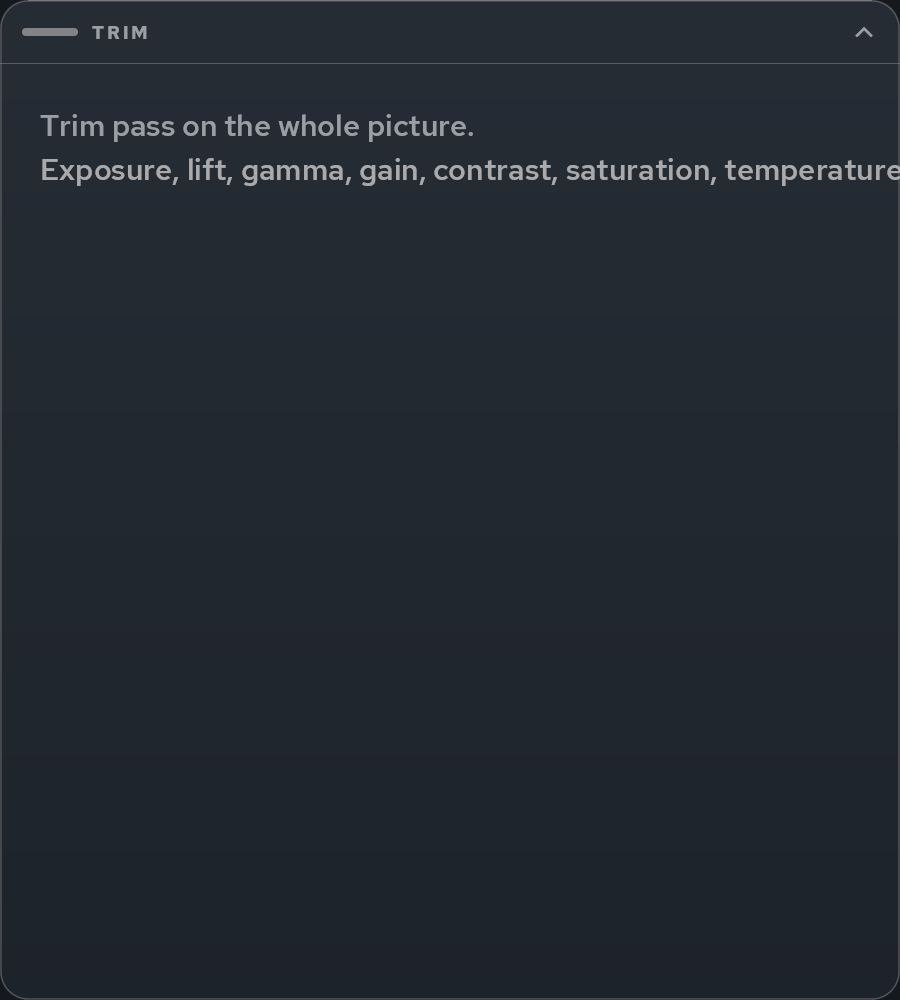
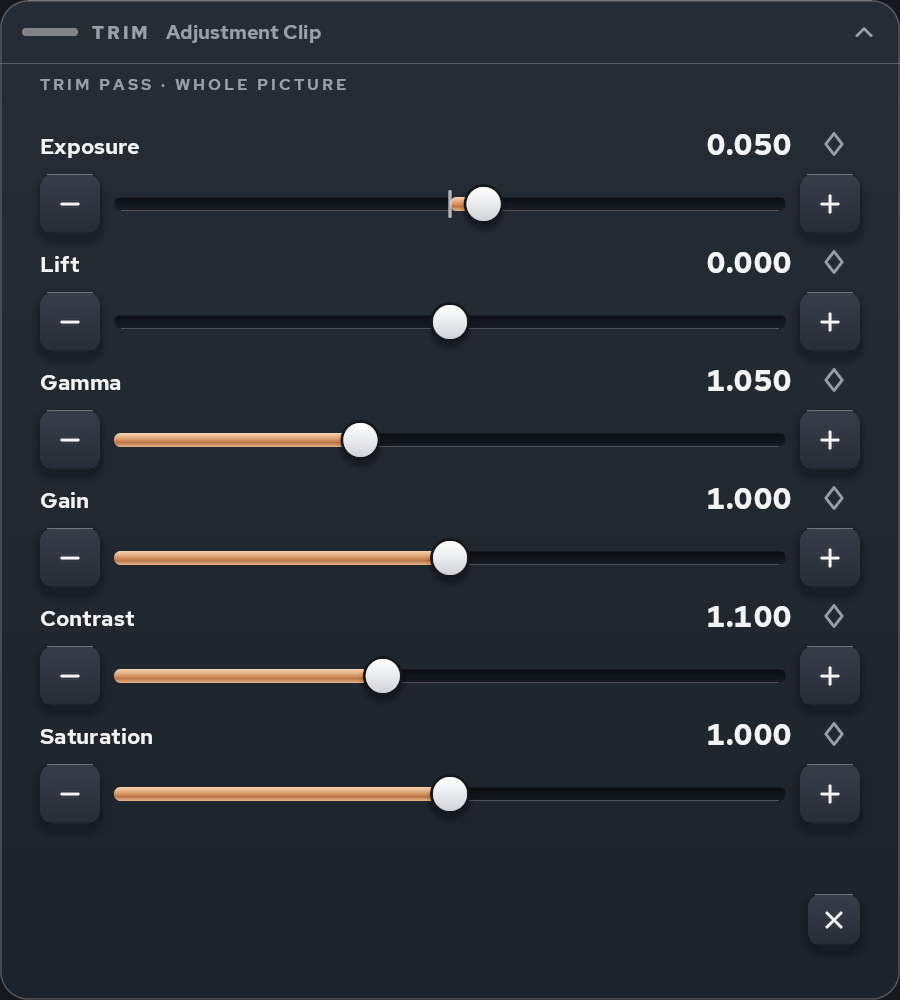
Docs: 3D cards are internal (templates later), Trim on Placement, test footage, commit-to-Color design
- CHANGELOG 1.0.8 now describes +50 (Trim on the Placement panel, clip
  name on the bars, smooth scopes, outlines under the panels) and drops
  the 3D Card lines: the Vine / Salmon / Hay Bale cards are Skylight's own
  and are not shipped; chooseable 3D card templates come with beta.
- Setup guide, how-to, readiness audit, headset reference, walkthrough
  notes and site edit list updated to match.
- docs/test-footage.md: where to get 180 / Blackmagic / Canon / VR180 /
  dome footage and what each tests.
- Roadmap: Monday notes and the "Commit to Color page" design for Trim
  (SetCDL, two-node mapping, not built).

Claude-Session: https://claude.ai/code/session_01YTubpriy5us5ShAXEFxtsy

diff --git a/docs/roadmap.md b/docs/roadmap.md
@@ -194,7 +194,7 @@ The Kalyx/Velaria website comp and its public Roadmap page still describe the 30
 2. **Roadmap page, Next → Now:** "Lens presets (Canon RF 5.2 mm / RF-S 3.9 mm / 180 / 200 / 220, ±5° trim)" — shipped 1.0.7+41; on-device look still owed, so keep the wording to what it is (presets, not calibration).
 3. **Roadmap page, Now:** add "Setup preflight: the headset tells you when Resolve's monitoring, output scaling or frame rate is wrong, with the fix" — shipped 1.0.8+47.
 4. **Roadmap page, Now:** add "Trim pass from the headset (exposure, lift/gamma/gain, contrast, saturation, temperature, tint) on an adjustment clip" — shipped 1.0.8+48 (unverified on device). This also retires "colour grading in the headset" from the *not on the list* line, or rewords it: "no grading; a trim pass, yes".
-5. **3D Cards wording (hands-on and tier chart):** today's 3D Cards depend on model kits (22–167 MB each) that cannot ship until the licence question is settled, and a missing kit fails the export. Until then say "3D titles (Vine kit) — more kits with the alpha" or "3D titles — with your own FBX/OBJ or ours", not three named cards.
+5. **3D Cards wording (hands-on and tier chart):** the Vine / Salmon / Hay Bale cards are Skylight-internal and not in the build (settled 2 Nov). Keep **3D Cards** on the site as a beta/launch feature: "3D card templates you pick from, with real depth" — not three named cards. For the alpha the 3D path is "your own FBX/OBJ scene through Canvas Control".
 6. **Downloads:** Stitch and Publish must not be live links (see "Kalyx Stitch and Publish — state and packaging plan"). Suggested: Stitch "coming with the alpha (Insta360 Titan now)", Publish "coming with the alpha".
 7. **Name:** every "Kalyx" on the site becomes "Velaria" when the rename lands; the DeckLink device name in screenshots and copy ("Kalyx (Quest)") follows the code rename, not before.
 8. **Hands-on section controls:** rebuild from the v3 renders (`quest/host/ref/*.png`: strip, placement, look, deck, scopes) — the comp still shows the v2 (Saira, glow) panels.
@@ -210,6 +210,21 @@ The Kalyx/Velaria website comp and its public Roadmap page still describe the 30
 - **Package 1.0.8 rebuilt complete** (`~/VRLink/release/VR-Link-1.0.8.zip`, 12.5 MB, 06:03): fixed installer, bridge with preflight + versions, Montserrat in `fonts/`, Kalyx Trim in `macros/`, headset app 1.0.8+48, changelog with everything above. (`package.sh` had lost its exec bit in a sync; restored.)
 - Quest: 1.0.8+48 installed Sunday 03:07 (adb "Success"), not launched; the Quest is **not on Bruce this morning — four Pico 4 (A9210) headsets are on the hub instead** (the ALICE deployment), so no on-device check and no launch. `quest.log`: Nelson's Saturday 15:48 session ran clean (no `xrEndFrame failed`, no "ignoring", no "dropping").
 - Weekend chain complete: B, H, C, I, D, F, G. E (curved panels) stays parked.
+
+## Monday morning with Nelson (2 Nov 2026, 08:06–09:00 ET)
+- **Trim works on his timeline.** Build **1.0.8+50** (installed 08:43): the Trim bars moved from a Look tab to the **Placement panel (TRIM view)** — Nelson's call, and the right one: Placement is "the selected thing's controls", Look is the app's own view. Placement/Look bars show **just the clip name**. Card outlines composite **under** the strip and panels and come from a 1024 × 576 16:9 texture (the 160 px box stretched over a card was the "pixelated corners"). Paged lists get a chip strip under the last row and a chevron-down icon.
+- **3D Cards, corrected:** Vine / Salmon / Hay Bale are Skylight-internal project cards and are **not in the build** (`package.sh` skips them; done 08:15). The product feature is **3D card templates a person picks from**, a beta/launch (v2) item — keep it on the site's roadmap as that, not as the three named cards. The alpha's 3D path is Canvas Control's 3D Scene input.
+- **Repo.** `git init` on the tree; two commits (1.0.8 baseline, +50). Working copy on Bruce at `~/Projects/Velaria` (cloned from a bundle; remote set to `git@github.com:nelsondunk/velaria.git`, which does not exist yet — Bruce's SSH key is authorised on GitHub, so the push goes the moment the empty private repo exists). Container builds stay the build machine until the Android NDK is set up on Bruce.
+- **Downloads page (Stitch / Publish):** nothing live, agreed; both to be ready for launch — packaging plan in the Stitch/Publish state doc (bundle spatial-media, decide ffmpeg, Release build, notarise, README).
+- **Test footage for every format**: `docs/test-footage.md` — Blackmagic's 18 public URSA Cine Immersive BRAW clips (3.8–25.8 GB, 16320 × 7200 at 90 fps) are the free one to start with; Canon needs a native R5 + RF 5.2 clip (Canon publishes none); VR180 from the Kandao gallery; dome masters from ESA/Hubble, which is a projection we don't have yet.
+
+### "Commit to Color page" for Kalyx Trim — design (not built)
+Nelson, 2 Nov: "some kind of 'commit changes to Color page' that deletes the Fusion node while moving the items to a Color page node."
+
+- **The API route exists:** `TimelineItem.SetCDL({"NodeIndex": "1", "Slope": "r g b", "Offset": "r g b", "Power": "r g b", "Saturation": "s"})` writes an ASC CDL into a node of the clip's Color-page graph — and an adjustment clip has its own graph, so the trim lands exactly where the Fusion node was. Then `DeleteFusionCompByName` (or leave the comp and set Amount = 0) removes the Fusion stage. One bridge command, one strip chip ("Commit to Color"), Resolve's undo covers it.
+- **The mapping is a CDL, so it is exact for most of the bars and approximate for two.** CDL = `(in × slope + offset) ^ power`, then saturation. Gain → slope; Lift and Exposure → offset; Gamma → power = 1/gamma; Saturation → saturation; Temperature/Tint → per-channel slope (they are per-channel gains in the macro already). **Contrast** (pivot 0.5) folds into slope and offset exactly only when power = 1 — with Gamma and Contrast both moved, the committed look differs slightly from the Fusion one, because Fusion applies contrast after the gamma curve and CDL cannot express that order. Either accept and say so in the UI ("committed as a CDL; gamma + contrast together are approximate"), or commit gamma as power and contrast as a second node's slope/offset (`NodeIndex 2`), which is exact. Two nodes is the honest version.
+- **Colour space:** Fusion runs in the timeline working space (RCM) and so does a Color-page node, so the numbers carry across without a transform. Verify on KALYX TEST with a scope read before and after (the regression rig can render frame 40 both ways and diff).
+- **Order:** (1) prove `SetCDL` on an adjustment clip in KALYX TEST, (2) bridge `commit_trim` with the two-node mapping and a diff render, (3) strip chip. Half a day. Not before the Quest has been used with the plain Trim for a week — committing is a convenience; the trim itself is the feature.
 
 ## Known constraints
 - Resolve scripting has no play/stop (seek only); no DCTL/OFX parameter access; re-render per change ~200–300 ms on a single card, 1–2 s with several stacked comps. From outside Resolve: `comp.Paste(dict)` and Lua `Execute` do not work; `tool.LoadSettings(file)` does (see footage tools). `fusion.NewComp(True, True)` gives a hidden scratch comp for experiments; close it without saving.

diff --git a/docs/test-footage.md b/docs/test-footage.md
@@ -1,0 +1,23 @@
+# Test footage for every format Kalyx claims (2 Nov 2026)
+
+Nelson, 2 Nov: "We should get some 180, Blackmagic, dome, Canon and whatever else footage so we can test everything on those formats." What exists in the wild, what it costs to get, and what each one tests. Nothing downloaded yet — the big ones are tens of gigabytes and want NYC's disk, not a headset session.
+
+| Format | Source | What you get | Size | What it exercises |
+|---|---|---|---|---|
+| **Apple Immersive / Blackmagic URSA Cine Immersive** | [Blackmagic gallery page](https://www.blackmagicdesign.com/products/blackmagicursacineimmersive/gallery) — "Download Blackmagic RAW Clip" | 18 BRAW clips (Desert Offroad, Sandy Valley Ranch, Iceland), 16320 × 7200 at 90 fps, dual-fisheye stereo, plus three `.drp` Resolve projects and one `.aivu`. Needs Resolve Studio 20.1+ | 3.8–25.8 GB each; pick **Desert Landscape 2 (3.8 GB)** and **Chasing Turn (6.1 GB)** | 180° stereo fisheye in Resolve's Immersive workflow; the monitoring path at 90 fps (our preflight will flag the frame rate — that is the point); whether the bridge's lens presets (180 / 200 / 220°) describe it |
+| **Canon RF 5.2 mm dual fisheye** | Canon does not publish raw camera files; the lens page has processed demos only ([Canon RF 5.2mm F2.8L](https://www.canon-europe.com/lenses/rf-5-2mm-f2-8l-dual-fisheye-lens/), [PetaPixel sample reel](https://petapixel.com/2021/10/18/this-is-what-footage-from-canons-5-2mm-dual-fisheye-lens-looks-like)) | Need a real R5 / R5 C clip (8K dual fisheye, side-by-side in one frame, Canon Log 3) | one 30 s clip ≈ 2–3 GB | the **Canon RF 5.2 (190°)** preset and the RF-S 3.9 (144°) preset in the View tab; side-by-side layout detection; the EOS VR Utility → Resolve path vs. straight BRAW-style fisheye |
+| **VR180 consumer** | [Kandao gallery](https://kandaovr.com/gallery) (Obsidian / QooCam samples), Lenovo Mirage samples via [360Rumors](https://360rumors.com/lenovo-mirage-vr180-samples/) | 5.7–8K side-by-side equirect 180, H.264/H.265 | 0.5–2 GB | SBS 180 equirect — the common YouTube VR180 case; Orient 360 on a 180 plate (should refuse or clamp) |
+| **Fulldome** | [ESA/Hubble fulldome clips](https://esahubble.org/Hubble25/fulldome/) (free, 4K dome masters), [NOIRLab video formats](https://noirlab.edu/public/videoformats), [FDDB 8K timelapse](https://www.fddb.org/?p=538) | 4K/8K square dome masters (azimuthal/fisheye, mono) | 1–10 GB | the one projection we **don't** have: a 180° fisheye dome master is not equirect. Needs a "Dome" projection in the headset (tilted fisheye, mono) — a new item, not a preset |
+| **Insta360 Titan / Pro 2** (ours) | Nelson's own stitched masters | 7680 × 7680 TB stereo, 8K mono | — | the path everything was built on; stays the reference |
+| **Flat 16:9 / 2:1** | any Resolve project | — | — | Flat projection window, PIP sources |
+
+## Order of attack
+
+1. **Blackmagic first** (free, public, the format the site names). Download the two small clips onto NYC overnight (`curl -L -o` from the gallery links; the links are behind a form on the page, so grab them in a browser and paste the URLs), open in KALYX TEST, drop on a 180 stereo timeline, monitor through Kalyx. Expect the preflight to say 90 fps vs timeline fps and the picture to need a 180 projection + fisheye lens preset.
+2. **Canon**: borrow or rent an R5 + RF 5.2 for a day, or ask a Canon rep for a native sample (they hand them out to dealers). Without a native file the two Canon presets are unverified claims.
+3. **VR180 consumer**: ten minutes, Kandao gallery.
+4. **Dome** is a feature, not a test: schedule it after the alpha unless a planetarium client appears.
+
+## What "tested" means for each
+
+Open in Resolve → appears in the headset with the right projection and eyes → preflight silent once the timeline is set up properly → Canvas Control card placed and rendered → export plays back on the Quest. Record the result per format in this file.

diff --git a/CHANGELOG.md b/CHANGELOG.md
@@ -4,7 +4,7 @@ For alpha testers. Newest first. Headset builds are numbered `version+build`; th
 
 ## 1.0.8 — 2 November 2026
 
-Headset app 1.0.8+48. Install over 1.0.7 with `sudo ./install.sh`; the headset app updates in place and keeps your panel layout.
+Headset app 1.0.8+50. Install over 1.0.7 with `sudo ./install.sh`; the headset app updates in place and keeps your panel layout.
 
 **Fixed**
 
@@ -15,17 +15,19 @@ Headset app 1.0.8+48. Install over 1.0.7 with `sudo ./install.sh`; the headset a
 **Added**
 
 - **The headset tells you when Resolve is set up wrong.** The strip's status line shows one warning with the fix in Resolve's own menu words: a square timeline without output scaling, monitoring smaller than the timeline, a frame-rate mismatch, or no picture after the bridge connects. Fix it and the line clears.
-- **Kalyx Trim** (Effects ▸ Kalyx): a trim pass for an adjustment clip — exposure, lift, gamma, gain, contrast, saturation, temperature, tint, amount — adjustable from the headset's Look panel (Trim tab, Picture layer).
-- **Montserrat ships in the package** and the installer adds it to your fonts. Without it the 3D Titles failed to export on any Mac but ours.
+- **Kalyx Trim** (Effects ▸ Kalyx): a trim pass for an adjustment clip — exposure, lift, gamma, gain, contrast, saturation, temperature, tint, amount — adjustable from the headset: pick it on the Picture layer and the Placement panel becomes the TRIM panel.
+- **Montserrat ships in the package** and the installer adds it to your fonts, so titles set in it export on any Mac.
 - **Versions on the View tab.** Bottom right of Look ▸ View: headset build, Mac package, bridge and Resolve. A screenshot of that line answers the first three questions in any bug report.
 - **`adb` comes in the box.** The package includes Google's Android platform-tools (`platform-tools/adb`, universal binary, licence in `platform-tools/NOTICE.txt`). You no longer need Homebrew or the Android SDK; if you have `adb` already, yours is used. `sudo ./install.sh --headset` installs or updates the headset app on its own.
 - `send-logs.sh` gathers the Mac logs, the versions and the headset log into one zip on your Desktop.
+- The Placement and Look bars name the clip you are controlling.
+- Scopes are drawn with a smoothing filter instead of nearest-neighbour: lines are lines, not staircases.
+- Card outlines in the picture sit under the panels (they used to cut across them) and have proper round corners.
 - Test hooks for us: the app reads `cmd.txt` in its files folder for scripted presses, pointing and quitting, so we can reproduce what you report without a hand in the headset.
 
 **Fixed, installer**
 
 - 1.0.8's first installer stopped after placing adb and never installed the Fusion library (caught by a ten-cycle install soak on a second Mac). Fixed before anyone got it.
-- The Salmon 3D Card's fish model was an absolute path on our own drive; every model file now follows the Model Kit Folder control.
 
 **Changed**
 
@@ -35,7 +37,7 @@ Headset app 1.0.8+48. Install over 1.0.7 with `sudo ./install.sh`; the headset a
 **Known**
 
 - Square 360 timelines (over/under, e.g. 5760 × 5760) still need Output scaling set to 3840 × 3840 while you monitor; the headset tells you when that is the problem.
-- The 3D Cards need their model kits on your Mac (Model Kit Folder); a missing kit fails the export rather than dropping the model. Kits are not in this package yet.
+- No 3D card templates yet: the alpha's 3D path is your own FBX/OBJ scene through Canvas Control's *3D Scene* input. Templates come with beta.
 - Nothing on the Quest Store yet: sideload only, developer mode required.
 
 ## 1.0.7 — 30 October 2026

diff --git a/docs/alpha-readiness-audit.md b/docs/alpha-readiness-audit.md
@@ -78,7 +78,7 @@ Verdict: the Mac side of the install is real on a second machine. Remaining inst
 ## What must be in place before build 1 leaves (in order)
 
 1. ~~Clean install on a machine that isn't Bruce~~ — **done on NYC 30 Oct** (see above). Still to do on a second machine: the headset half with a Quest plugged in, and the Blackmagic-present path.
-2. **The 3D Card kits travel with the zip** (or the Cards don't ship in build 1 — Canvas Control alone is a coherent alpha). Sizes: Vine 22 MB, Salmon 131 MB, Hay Bale 167 MB. **Proven 31 Oct on NYC**: without the kit the export fails outright. ~~Montserrat~~ — in the package from 1.0.9, installed by `install.sh`; without it every title/card export fails (regression doc).
+2. ~~The 3D Card kits travel with the zip~~ — **settled 2 Nov: the Vine / Salmon / Hay Bale cards are Skylight-internal and are not in the package** (`package.sh` skips every 3D Title / 3D Card). Canvas Control's 3D Scene input is the alpha's 3D path; chooseable 3D card templates come with beta/launch. (Kit sizes for the record: Vine 22 MB, Salmon 131 MB, Hay Bale 167 MB; a missing kit fails the export outright, proven 31 Oct on NYC.) ~~Montserrat~~ — in the package from 1.0.9, installed by `install.sh`; without it every title/card export fails (regression doc).
 3. **Headset stability confirmed** — **the two causes found and fixed 30 Oct evening** (1.0.7+43/+44, both verified with Nelson in the headset: black screen after bridge connect = non-unit quaternions from the five-decimal layout file; loading-screen hang after a quit = relaunch inside the finished process). Still wanted: a week of Nelson's own use on 1.0.8 with the collector running; any `xrEndFrame failed` line gets looked at before shipping.
 4. ~~Installer guards~~ — **done** (30–31 Oct): refuses on a present Blackmagic driver without `--replace-blackmagic` (logic untested: needs a Blackmagic Mac); checks the Command Line Tools; prints the version; `--headset` step; **adb bundled** (Google platform-tools 37.0.1, universal, in `platform-tools/` with its NOTICE, placed in Application Support on install; the system's own adb wins when present). **Soaked 31 Oct night on NYC: 10/10 uninstall → install cycles clean after fixing a `set -e` exit that had 1.0.8 skipping the Fusion library** (`docs/install-soak.md`).
 5. **send-logs.sh** — in the package since 1.0.7; finds the bundled adb from 1.0.8; untested on a clean Mac (task I covers the Mac half).

diff --git a/docs/howto-kalyx-effects.md b/docs/howto-kalyx-effects.md
@@ -23,7 +23,9 @@ Inspector pages:
 
 In the headset the window is on the **Overlays** layer: pinch it in the picture and move, or tap its name on the strip and use the Placement panel. The Look panel carries the Frame, Glow and Stereo pages.
 
-## 2. 3D title with real depth — Kalyx 3D Card · Vine / Salmon / Hay Bale
+## 2. 3D title with real depth — Kalyx 3D Card (Skylight-internal today; templates later)
+
+> **Not in the alpha package.** The Vine / Salmon / Hay Bale cards are Skylight's own project cards and are not shipped. Testers build 3D depth through Canvas Control's *3D Scene* input (end of this section). A set of chooseable 3D card templates is planned for beta/launch.
 
 What it is: Canvas Control and a 3D title in one node, pre-wired. **Drop it straight on the plate clip** (or an adjustment clip): it composites the card over the plate itself. Output 2, *Card only*, is the card on transparency if you'd rather put it on its own track.
 
@@ -60,7 +62,7 @@ What it is: one Fusion ColorCorrector in a macro, meant for an **adjustment clip
 
 1. Put an adjustment clip over the section (Effects ▸ Toolbox ▸ Effects ▸ Adjustment Clip) and drop **Kalyx Trim** on it from Effects ▸ Kalyx.
 2. Controls, all on one *Trim* page: Exposure (an offset, −0.5…+0.5), Lift, Gamma, Gain, Contrast, Saturation, **Temperature** (blue ↔ amber) and **Tint** (green ↔ magenta), both approximated with per-channel gain, and **Amount** (0 turns the trim off, for before/after). Every one of them keyframes and undoes like any other Resolve control.
-3. In the headset: the **Picture** layer lists the trim as *Trim*; its controls are bars on the Look panel's **Trim** tab. The Placement panel has nothing to place for it and says so.
+3. In the headset: the **Picture** layer lists the trim as *Trim*; tap it and the Placement panel becomes **TRIM** — the nine bars, with nudge chips.
 4. When the trim is right, either leave it (it renders in the export like any Fusion effect) or read the values off the Inspector and build them into the grade on the colour page.
 
 Why a Fusion node and not the colour page's own CDL: Resolve's scripting can *set* a node's CDL but not read it back, so the headset would be blind to the colourist's wheels and would overwrite them. The Fusion route is readable, writable, keyframeable, undoable, and it stacks on top of the real grade instead of replacing it.

diff --git a/docs/headset-reference.md b/docs/headset-reference.md
@@ -8,7 +8,7 @@ Always on screen when the panels are open. Its job is to answer two questions at
 
 ![Strip, Overlays layer, a card picked](ref/strip-overlays.png)
 
-- **Overlays · Patches · Picture** — the layer control, with a count of what is at this frame. Overlays are titles and footage windows (pickable in the picture). Patches are LatLong Patcher windows. Picture is the whole sphere (PanoMap, Kalyx Orient 360) and the **Kalyx Trim** pass (its controls are on the Look panel's Trim tab).
+- **Overlays · Patches · Picture** — the layer control, with a count of what is at this frame. Overlays are titles and footage windows (pickable in the picture). Patches are LatLong Patcher windows. Picture is the whole sphere (PanoMap, Kalyx Orient 360) and the **Kalyx Trim** pass (its bars take over the Placement panel).
 - The four icons on the right show and hide the **Placement**, **Look**, **Timeline** and **Scopes** panels (raised = shown). The chevron rolls the strip up to its bar.
 - Row two: one chip per thing on this layer; the copper one is what your hand moves. Only ever one. Arrows page through them; a lock on a name means it is locked.
 - **Copy · Paste · Undo** act on the picked chip. Undo is Resolve's undo.
@@ -53,9 +53,9 @@ Tabs are the macro's own pages (Frame, Glow, Stereo…). Bars have nudge chips f
 
 ![Look panel, View tab](ref/look-view.png)
 
-![Look panel, Trim tab](ref/look-trim.png)
+![Placement panel as TRIM](ref/placement-trim.png)
 
-A **Kalyx Trim** on an adjustment clip gets a Trim tab: exposure, lift, gamma, gain, contrast, saturation, temperature, tint and amount, as bars.
+A **Kalyx Trim** on an adjustment clip (Picture layer) turns the Placement panel into **TRIM**: exposure, lift, gamma, gain, contrast, saturation, temperature, tint and amount, as bars (the last rows page with the chevron). The Look panel keeps its View tab.
 
 The **View** tab is the app's own settings: stream and playback status; **Source** (Auto / Resolve / Premiere · After Effects); **Picture** (layout, projection, swap eyes, delay); **Overlays** (status bar, level grid, card outline); **Panels** (recentre, placed / follow, scopes on/off). Diagnostics at the bottom, and the versions line: headset build · Mac package · bridge (when it differs) · Resolve. Read that line out, or screenshot it, when you report anything.
 

diff --git a/docs/walkthrough-notes.md b/docs/walkthrough-notes.md
@@ -43,7 +43,7 @@ Audience: an immersive editor on a Mac with a Quest, cutting in Resolve Studio. 
 ## 5. Patches, re‑orientation and the trim pass (the Patches and Picture layers)
 - Your tripod/nadir paint‑out chain (LatLong Patcher + Paint) stays set up in Resolve. By default the headset does **not** touch it: those tools only appear when you switch the strip to **Patches**.
 - On Patches nothing in the picture is pickable (tap a name instead), the tag is ice (PATCH), and each patch can be **Locked** so a stray pinch can't move it — a lock icon on its name; Lock is remembered.
-- **Picture** is the whole sphere: PanoMap / Kalyx Orient 360 (PICTURE tag) and the **Kalyx Trim** pass (TRIM tag) — one node on an adjustment clip with exposure, lift, gamma, gain, contrast, saturation, temperature and tint on the Look panel's Trim tab. "A trim on the device the audience will wear; the colour page never knows."
+- **Picture** is the whole sphere: PanoMap / Kalyx Orient 360 (PICTURE tag) and the **Kalyx Trim** pass (TRIM tag) — one node on an adjustment clip with exposure, lift, gamma, gain, contrast, saturation, temperature and tint as bars on the Placement panel (TRIM). "A trim on the device the audience will wear; the colour page never knows."
 - Re‑orienting a whole stereo 360 plate at the end of the chain: **Kalyx Orient 360** (Effects ▸ Kalyx). Feed it the top/bottom clip *after* all patches and paint: it splits the eyes, PanoMaps both identically, recombines. Pan / Tilt / Roll from the headset with the level grid on. Mono plate: a plain PanoMap does the same job and shows up on the same layer.
 
 ## 6. Premiere Pro and After Effects (monitor only)

diff --git a/docs/alpha-setup-guide.md b/docs/alpha-setup-guide.md
@@ -48,7 +48,7 @@ If the status says **Premiere / After Effects** instead of Resolve, the Source i
 
 ## 5. Placing things from the headset
 
-- Edit page → **Effects → Kalyx**. Drop **Kalyx Canvas Control** on a clip above your plate for a footage window (PIP) or a flat title; drop **Kalyx 3D Card · Vine / Salmon / Hay Bale** straight onto the plate for a 3D title with real depth. The Inspector has every control; the headset has the ones you want to do by hand.
+- Edit page → **Effects → Kalyx**. Drop **Kalyx Canvas Control** on a clip above your plate for a footage window (PIP), a flat title, or your own 3D scene (FBX/OBJ) with real depth; drop **Kalyx Trim** on an adjustment clip for a trim pass you can do from the headset. The Inspector has every control; the headset has the ones you want to do by hand. (Ready-made 3D card templates are a later release — the alpha has Canvas Control's 3D Scene input.)
 - In the headset, the strip shows **Overlays · Patches · Picture**. On Overlays, pinch a card in the picture and move it, or tap its name and use the Placement panel's ring (pan), arc (tilt), throttles (distance, scale) and dials. Release, and Resolve re-renders: "Resolve updated in 0.4 s".
 - Undo is Resolve's undo. Every change you make in the headset is a real change to the comp.
 - **Patches** (LatLong Patcher paint-outs) and **Picture** (PanoMap / Kalyx Orient 360 re-orientation) live on their own layers and stay out of your way until you switch to them; lock a patch so a stray pinch can't move it.
